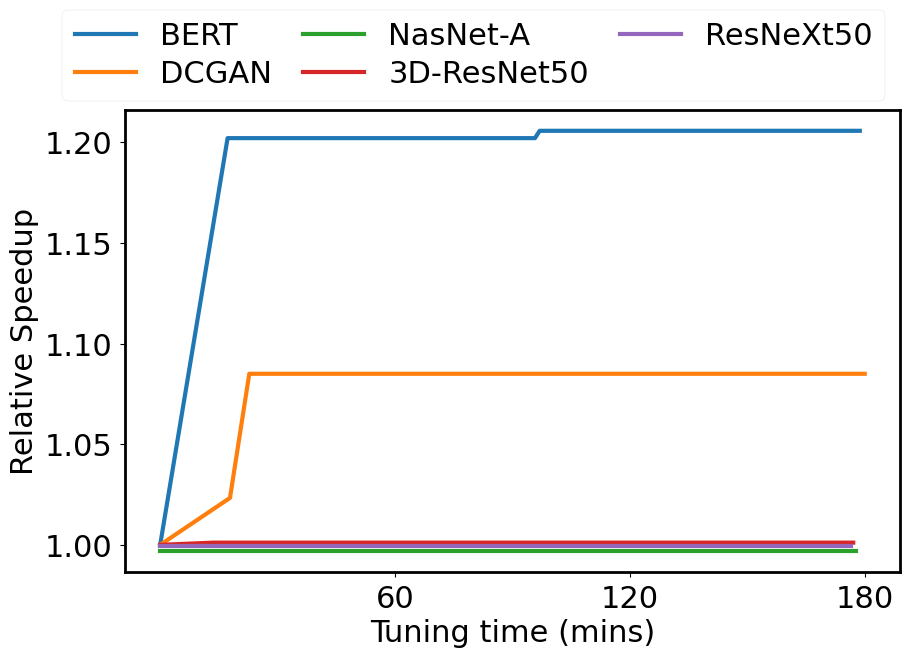
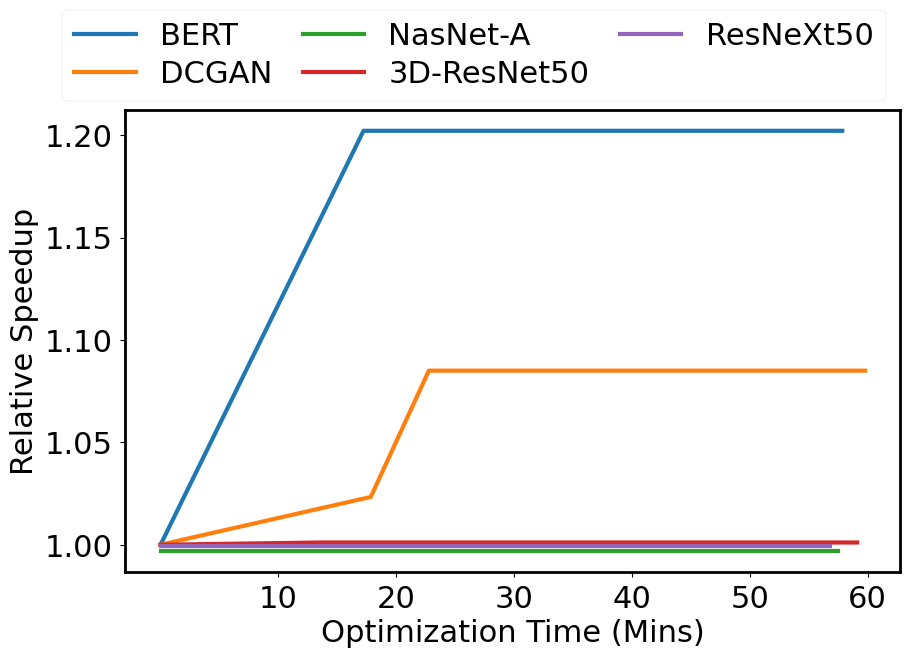
[V100] Time-perf plot updated

diff --git a/sandbox/testing/plot_time_perf.py b/sandbox/testing/plot_time_perf.py
@@ -71,7 +71,7 @@ def plot_all_nets(networks, hw, batch_size):
         tuning_time, inf_time = np.array(tuning_time) / 60.0, np.array(inf_time)
 
         # Cut array up to 3 hours
-        cond = np.vectorize(lambda t: t < 180)
+        cond = np.vectorize(lambda t: t < 60)
         tuning_time = tuning_time[cond(tuning_time)]
         inf_time = inf_time[:len(tuning_time)]
 
@@ -81,8 +81,8 @@ def plot_all_nets(networks, hw, batch_size):
         plt.plot(tuning_time, rel_speed_up, label=net_name)
 
     # plt.xlabel('Tuning time (secs)')
-    plt.xticks(range(60, 181, 60))
-    plt.xlabel('Tuning time (mins)')
+    plt.xticks(range(10, 61, 10))
+    plt.xlabel('Optimization Time (Mins)')
     plt.ylabel('Relative Speedup')
     plt.legend(ncol=3, loc='upper center', bbox_to_anchor=(0.45, 1.25), labelspacing=0.3, columnspacing=1.0)
 
